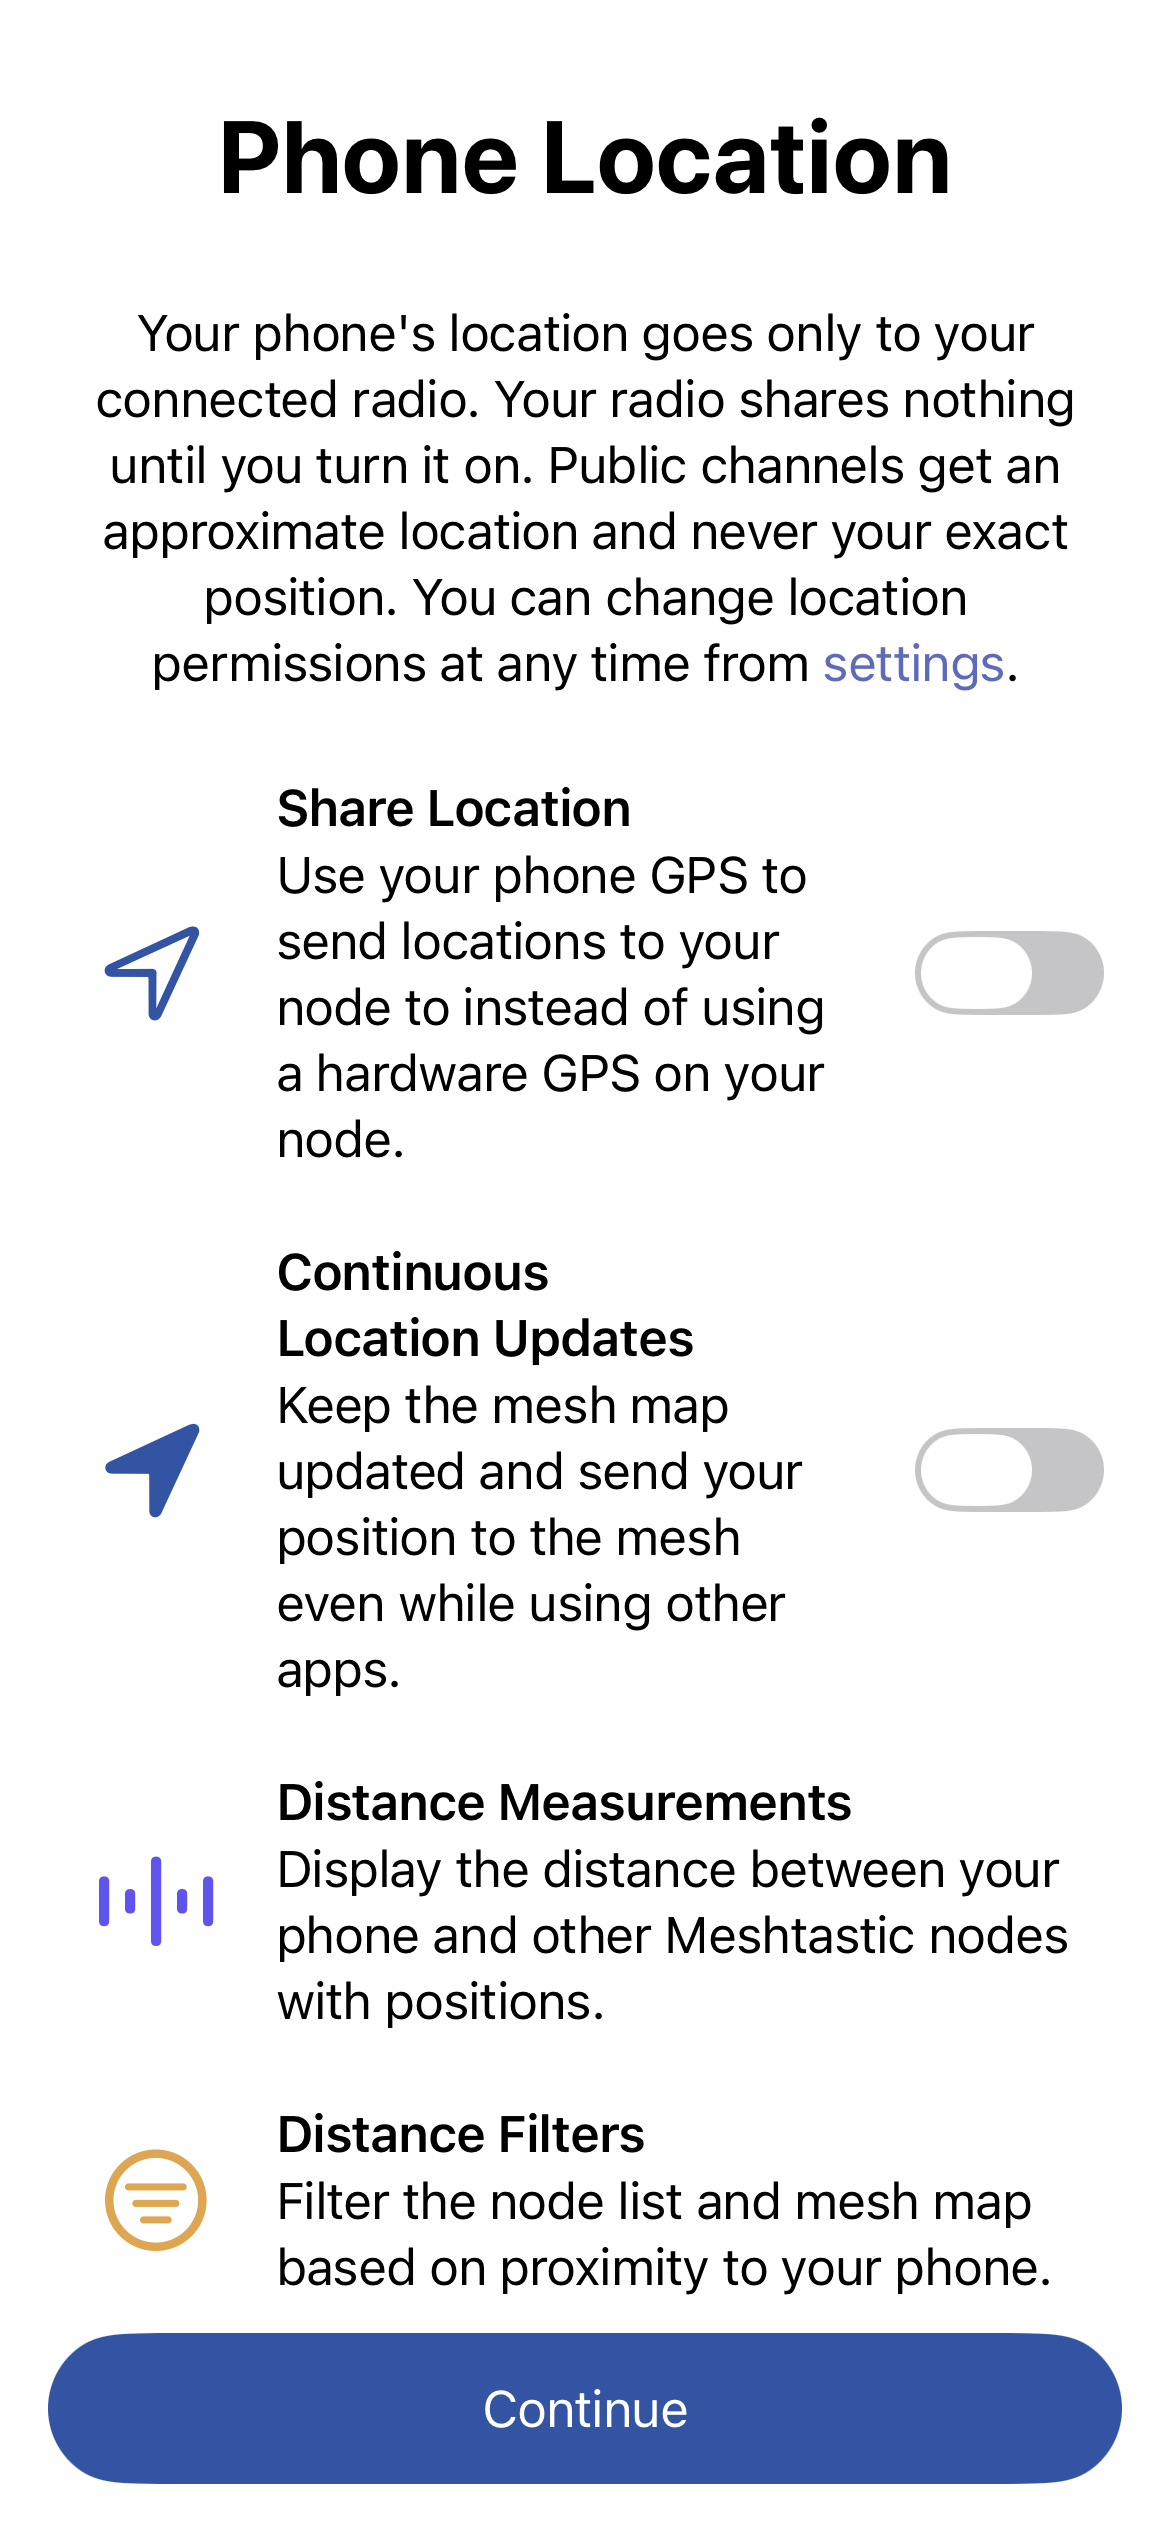
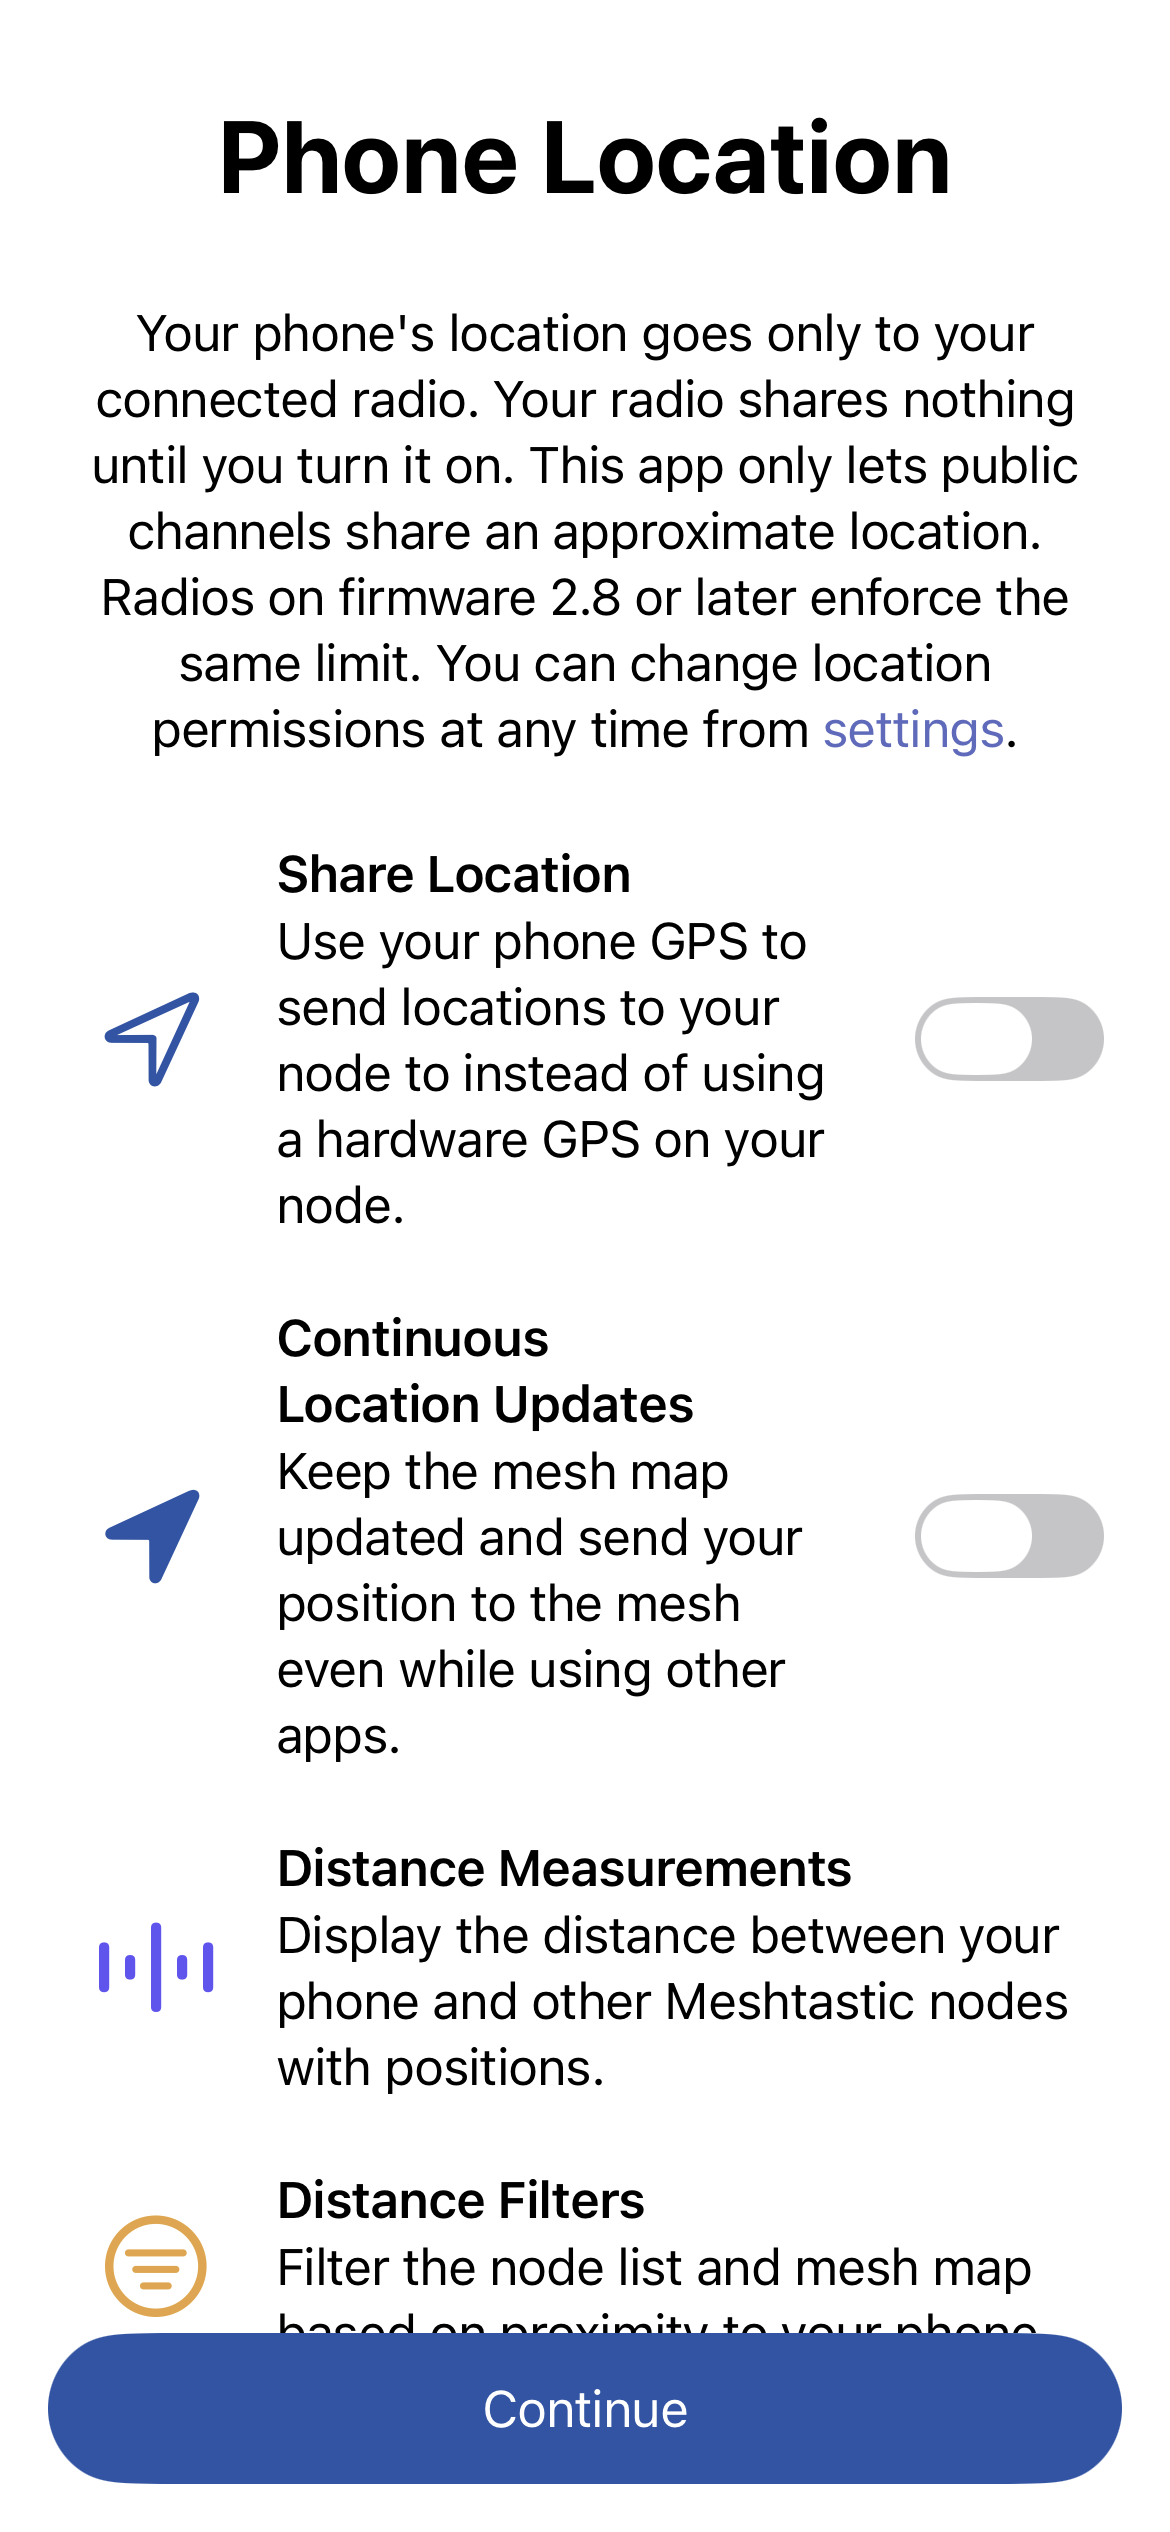
Say what keeps a public channel's location approximate
The welcome and location pages said public channels never get an exact
position. The app's channel editor only offers approximate location on
public keys, and firmware 2.8 clamps public channels on the radio, but a
2.7 radio with a public channel set to full precision from another
client still sends the exact position.

Say what the app does and what firmware 2.8 enforces, and note the
older-firmware case in the docs. Snapshots and the docs bundle
regenerated.

diff --git a/Meshtastic/Resources/docs/user/getting-started.html b/Meshtastic/Resources/docs/user/getting-started.html
@@ -28,7 +28,7 @@
 <div class="tips-callout"><strong>Tip:</strong> If your device does not appear, make sure Bluetooth is enabled in iOS Settings and that the radio is within range (roughly 10 meters for initial pairing).</div>
 <h3 id="first-launch-setup">First-Launch Setup</h3>
 <p>The first time the app opens, a short guided setup says what Meshtastic is and walks through the permissions the app uses, in order. Each screen explains what the permission is for, and any of them can be changed later in iOS Settings. Tapping <strong>Continue</strong> advances to the next step, after granting or declining the permission.</p>
-<p><strong>1. Welcome</strong> — what Meshtastic does, how it treats location (the radio shares none until it is turned on, and public channels only ever get an approximate location), and a note that the next screens set up the features you want.</p>
+<p><strong>1. Welcome</strong> — what Meshtastic does, how it treats location (the radio shares none until it is turned on, and the app only lets public channels share an approximate location), and a note that the next screens set up the features you want.</p>
 <p><img src="../assets/screenshots/onboarding_welcome.png" alt="Welcome screen" /></p>
 <p><strong>2. Bluetooth</strong> — required to discover and connect to your radio.</p>
 <p><img src="../assets/screenshots/onboarding_bluetooth.png" alt="Bluetooth permission screen" /></p>
@@ -36,7 +36,7 @@
 <p><img src="../assets/screenshots/onboarding_localNetwork.png" alt="Local Network permission screen" /></p>
 <p><strong>4. Notifications</strong> — toggle which alerts you want before granting permission: incoming messages, new nodes, low battery, and critical alerts that bypass silent mode and Do Not Disturb.</p>
 <p><img src="../assets/screenshots/onboarding_notifications.png" alt="Notifications permission screen" /></p>
-<p><strong>5. Location</strong> — optional; lets your phone supply position to your radio and keep the map updated in the background. The phone's location goes only to the connected radio. Public channels get an approximate location, never the exact position. This step is skipped if location access was already granted.</p>
+<p><strong>5. Location</strong> — optional; lets your phone supply position to your radio and keep the map updated in the background. The phone's location goes only to the connected radio. The app only lets public channels share an approximate location, and radios on firmware 2.8 or later enforce the same limit on the radio. On older firmware, a public channel set to full precision from another client still sends the exact position. This step is skipped if location access was already granted.</p>
 <p><img src="../assets/screenshots/onboarding_location.png" alt="Location permission screen" /></p>
 <p><strong>6. Siri &amp; Shortcuts</strong> — optional; enables voice commands and CarPlay messaging.</p>
 <p><img src="../assets/screenshots/onboarding_siri.png" alt="Siri and Shortcuts permission screen" /></p>

diff --git a/Meshtastic/Views/Onboarding/DeviceOnboarding.swift b/Meshtastic/Views/Onboarding/DeviceOnboarding.swift
@@ -69,7 +69,7 @@ struct DeviceOnboarding: View {
 			OnboardingFeatureRow(
 				symbol: "lock.shield",
 				title: String(localized: "Privacy First"),
-				text: String(localized: "Channels are encrypted. Your radio shares no location until you turn it on. Public channels can be logged by anyone nearby and only ever get an approximate location. Your precise location goes only to private channels you choose.")
+				text: String(localized: "Channels are encrypted. Your radio shares no location until you turn it on. Public channels can be logged by anyone nearby, so this app only lets them share an approximate location. Your precise location goes only to private channels you choose.")
 			)
 			OnboardingFeatureRow(
 				symbol: "slider.horizontal.3",
@@ -368,7 +368,7 @@ extension DeviceOnboarding {
 	}
 
 	func createLocationString() -> AttributedString {
-		linkingSettings(AttributedString(localized: "Your phone's location goes only to your connected radio. Your radio shares nothing until you turn it on. Public channels get an approximate location and never your exact position. You can change location permissions at any time from settings."))
+		linkingSettings(AttributedString(localized: "Your phone's location goes only to your connected radio. Your radio shares nothing until you turn it on. This app only lets public channels share an approximate location. Radios on firmware 2.8 or later enforce the same limit. You can change location permissions at any time from settings."))
 	}
 
 	func createLocalNetworkString() -> AttributedString {

diff --git a/Meshtastic/Resources/docs/markdown/user/getting-started.md b/Meshtastic/Resources/docs/markdown/user/getting-started.md
@@ -33,7 +33,7 @@ The connection indicator turns green when the radio is paired and communicating.
 
 The first time the app opens, a short guided setup says what Meshtastic is and walks through the permissions the app uses, in order. Each screen explains what the permission is for, and any of them can be changed later in iOS Settings. Tapping **Continue** advances to the next step, after granting or declining the permission.
 
-**1. Welcome** — what Meshtastic does, how it treats location (the radio shares none until it is turned on, and public channels only ever get an approximate location), and a note that the next screens set up the features you want.
+**1. Welcome** — what Meshtastic does, how it treats location (the radio shares none until it is turned on, and the app only lets public channels share an approximate location), and a note that the next screens set up the features you want.
 
 ![Welcome screen](../assets/screenshots/onboarding_welcome.png)
 
@@ -49,7 +49,7 @@ The first time the app opens, a short guided setup says what Meshtastic is and w
 
 ![Notifications permission screen](../assets/screenshots/onboarding_notifications.png)
 
-**5. Location** — optional; lets your phone supply position to your radio and keep the map updated in the background. The phone's location goes only to the connected radio. Public channels get an approximate location, never the exact position. This step is skipped if location access was already granted.
+**5. Location** — optional; lets your phone supply position to your radio and keep the map updated in the background. The phone's location goes only to the connected radio. The app only lets public channels share an approximate location, and radios on firmware 2.8 or later enforce the same limit on the radio. On older firmware, a public channel set to full precision from another client still sends the exact position. This step is skipped if location access was already granted.
 
 ![Location permission screen](../assets/screenshots/onboarding_location.png)
 

diff --git a/docs/user/getting-started.md b/docs/user/getting-started.md
@@ -33,7 +33,7 @@ The connection indicator turns green when the radio is paired and communicating.
 
 The first time the app opens, a short guided setup says what Meshtastic is and walks through the permissions the app uses, in order. Each screen explains what the permission is for, and any of them can be changed later in iOS Settings. Tapping **Continue** advances to the next step, after granting or declining the permission.
 
-**1. Welcome** — what Meshtastic does, how it treats location (the radio shares none until it is turned on, and public channels only ever get an approximate location), and a note that the next screens set up the features you want.
+**1. Welcome** — what Meshtastic does, how it treats location (the radio shares none until it is turned on, and the app only lets public channels share an approximate location), and a note that the next screens set up the features you want.
 
 ![Welcome screen](../assets/screenshots/onboarding_welcome.png)
 
@@ -49,7 +49,7 @@ The first time the app opens, a short guided setup says what Meshtastic is and w
 
 ![Notifications permission screen](../assets/screenshots/onboarding_notifications.png)
 
-**5. Location** — optional; lets your phone supply position to your radio and keep the map updated in the background. The phone's location goes only to the connected radio. Public channels get an approximate location, never the exact position. This step is skipped if location access was already granted.
+**5. Location** — optional; lets your phone supply position to your radio and keep the map updated in the background. The phone's location goes only to the connected radio. The app only lets public channels share an approximate location, and radios on firmware 2.8 or later enforce the same limit on the radio. On older firmware, a public channel set to full precision from another client still sends the exact position. This step is skipped if location access was already granted.
 
 ![Location permission screen](../assets/screenshots/onboarding_location.png)
 
